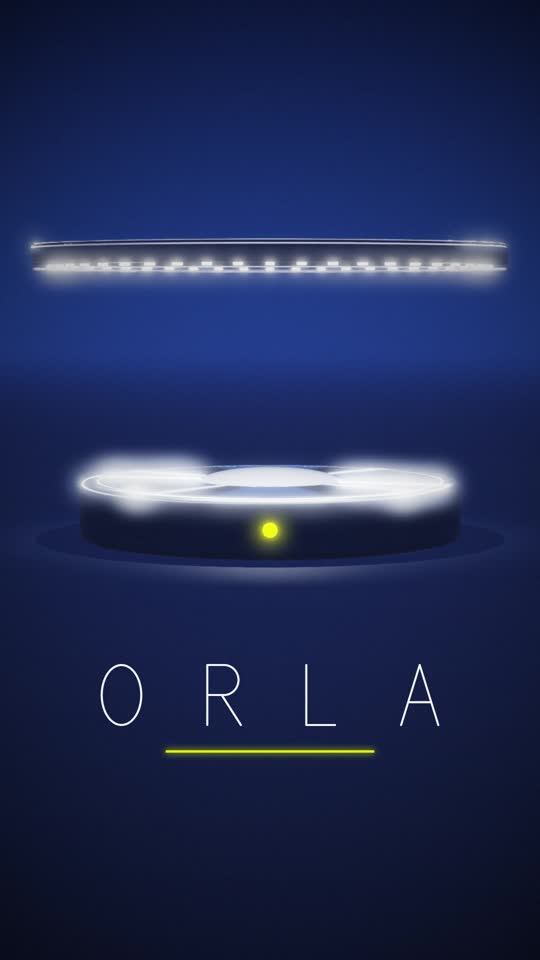
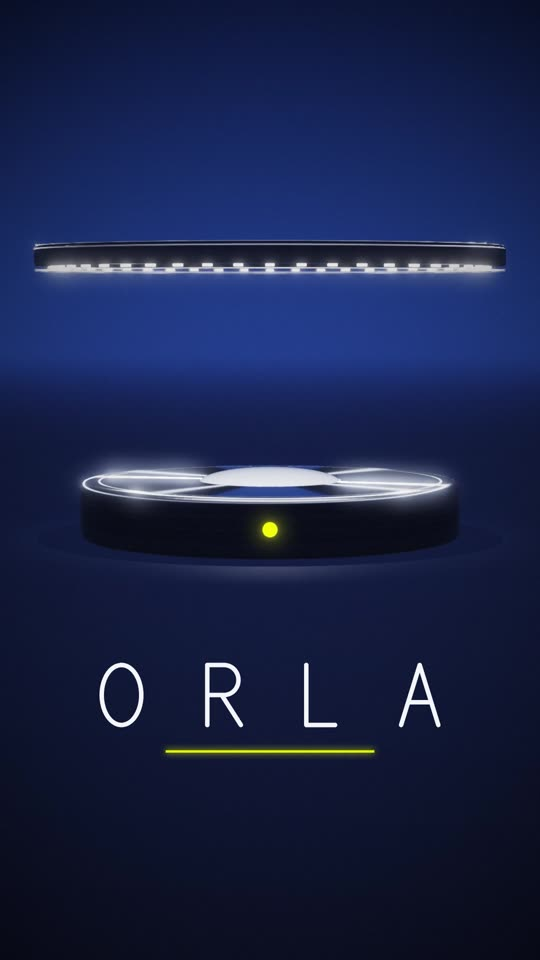
polimento: luz, textura e enquadramento no estúdio

diff --git a/exemplos/biblioteca/produto-estudio/letreiro.js b/exemplos/biblioteca/produto-estudio/letreiro.js
@@ -89,7 +89,7 @@ export function criarLetreiro(H, L, A) {
     // a marca no fim: entra devagar fechando o espaço entre as letras; depois o sublinhado amarelo cresce
     if (t >= MA.de) {
       const a = saiDevagar(trecho(t, MA.de, MA.de + 0.8)), tam = MA.tam * u, entre = MA.espaco + (1 - a) * 0.5;
-      const w = escreve(MAI(MA.texto), L / 2, MA.y * u, tam, { cor: COR('texto'), grossura: 0.035, entre, alfa: a });
+      const w = escreve(MAI(MA.texto), L / 2, MA.y * u, tam, { cor: COR('texto'), grossura: 0.075, entre, alfa: a });
       const s = saiDevagar(trecho(t, MA.sublinha[0], MA.sublinha[1]));
       if (s > 0) {
         const sw = w * 0.62 * s;

diff --git a/exemplos/biblioteca/produto-estudio/motor.js b/exemplos/biblioteca/produto-estudio/motor.js
@@ -53,7 +53,7 @@ Filme.criar({
     const escL = esc.clone(); escL.repeat.set(1, 3); escL.needsUpdate = true;       // riscos mais finos no topo
     const metal = (cor, rug, tx, rep = 1) => new THREE.MeshPhysicalMaterial({
       color: cor, metalness: 1, roughness: rug, anisotropy: 0.75, anisotropyRotation: 0,
-      bumpMap: tx, bumpScale: 0.35 * rep, roughnessMap: tx,
+      map: tx, bumpMap: tx, bumpScale: 0.35 * rep, roughnessMap: tx,
     });
     const matAlu = metal(C.aluminio, 0.34, esc);
     const matTampa = metal(C.aluminioClaro, 0.28, escL, 1.2);

diff --git a/exemplos/biblioteca/produto-estudio/LEIA.md b/exemplos/biblioteca/produto-estudio/LEIA.md
@@ -45,8 +45,8 @@ node ferramentas/render.mjs exemplos/biblioteca/produto-estudio --historia minha
 **De onde saiu.** Do filme "Halo: a product film" (estilo "Studio product film") da biblioteca de
 estilos da fonte. O produto, o nome ORLA e as mãos daqui são desenho novo e genérico.
 
-**Tempo de render medido** (`medida.json`): 242 s para 14,5 s de filme (435 quadros, 486 ms por
-quadro, 3 navegadores, sem GPU). O MP4 sai com cerca de 18 MB.
+**Tempo de render medido** (`medida.json`): 188,8 s para 14,5 s de filme (435 quadros, 381,7 ms por
+quadro, 3 navegadores, sem GPU). O MP4 sai com cerca de 18,77 MB.
 
 **Falta polir**
 - A lente do meio estoura em branco nos planos de perto (macro e herói); a fonte mostra mais o vidro fosco.
